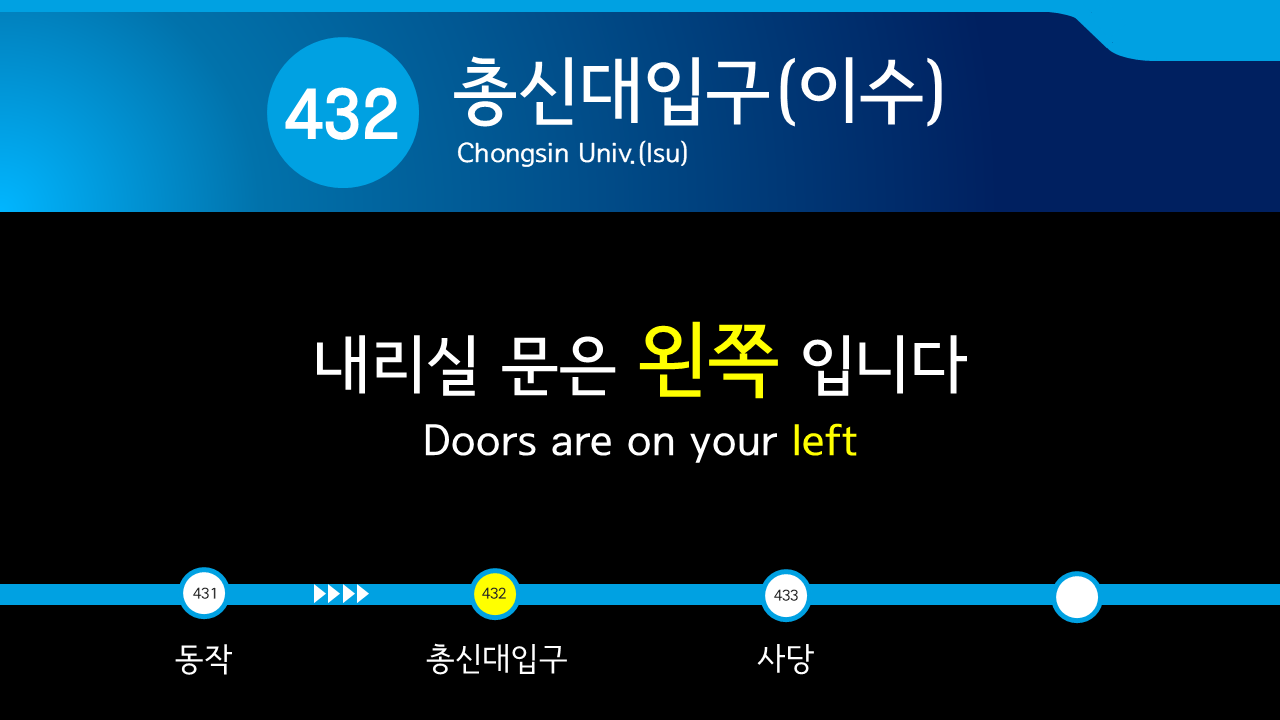
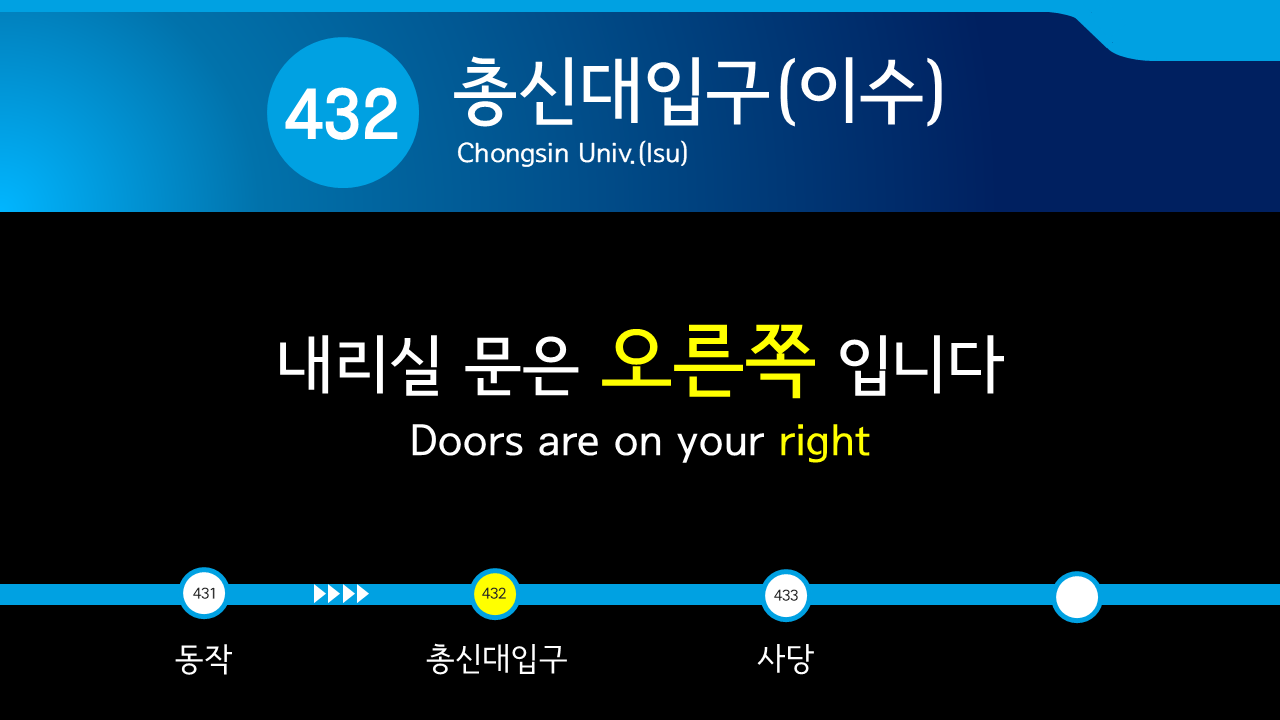
fix1

Changed region(s): [[0.2188, 0.4278, 0.7812, 0.55], [0.3125, 0.5806, 0.6875, 0.6417]]

diff --git a/subway_system.py b/subway_system.py
@@ -171,18 +171,22 @@ class SubwaySystem:
 
     def play_audio(self, path, is_announce=False):
         if path and os.path.exists(path):
-            pygame.mixer.music.load(path)
-            pygame.mixer.music.play()
-            
-            if is_announce:
-                self.is_playing_announce = True
-                self.btn_announce.config(text="중 지", bg="#FF4500") # 오렌지레드로 버튼 색상 변경
-                self.check_audio_end() # 오디오 종료 감시 시작
-            else:
-                # 다른 버튼(출입문, 출발방송)을 눌러 오디오가 끊긴 경우 시작버튼 원상복구
-                if self.is_playing_announce:
-                    self.is_playing_announce = False
-                    self.btn_announce.config(text="시 작", bg="#1E90FF")
+            try:
+                # 리눅스 Pygame 한글 경로 인식 버그 우회: 파이썬이 파일을 직접 열어서 전달
+                audio_file = open(path, "rb")
+                pygame.mixer.music.load(audio_file)
+                pygame.mixer.music.play()
+                
+                if is_announce:
+                    self.is_playing_announce = True
+                    self.btn_announce.config(text="중 지", bg="#FF4500") 
+                    self.check_audio_end() 
+                else:
+                    if self.is_playing_announce:
+                        self.is_playing_announce = False
+                        self.btn_announce.config(text="시 작", bg="#1E90FF")
+            except Exception as e:
+                print(f"오디오 재생 중 오류 발생: {e}")
         else:
             print(f"오디오 파일을 찾을 수 없습니다. 경로를 확인하세요: {path}")
 
@@ -207,6 +211,7 @@ class SubwaySystem:
         
         img_path = None
         
+        # 1. 출발 상태 체크
         if self.departure_state in (1, 2):
             specific_dep_img_lower = os.path.join(BASE_DIR, f"departure_{self.direction}.png")
             specific_dep_img_upper = os.path.join(BASE_DIR, f"departure_{self.direction}.PNG")
@@ -225,17 +230,26 @@ class SubwaySystem:
             else:
                 img_path = standby_img
                 
+        # 2. 대기 상태 체크
         elif self.is_standby:
             img_path = os.path.join(station_dir, "standby.png")
             
+        # 3. 반복 화면 상태 (대소문자 상관없이 모든 이미지(png, jpg) 긁어오기)
         else:
             loop_dir = os.path.join(station_dir, self.direction)
             if os.path.exists(loop_dir):
-                images = sorted(glob.glob(os.path.join(loop_dir, "*.png")))
+                images = []
+                for f in os.listdir(loop_dir):
+                    if f.lower().endswith(('.png', '.jpg', '.jpeg')):
+                        images.append(os.path.join(loop_dir, f))
+                
+                images = sorted(images)
+                
                 if images:
                     img_path = images[self.image_loop_idx % len(images)]
                     self.image_loop_idx += 1
 
+        # 이미지 렌더링 및 텍스트 오버레이
         if img_path and os.path.exists(img_path):
             try:
                 img = Image.open(img_path).convert("RGBA")